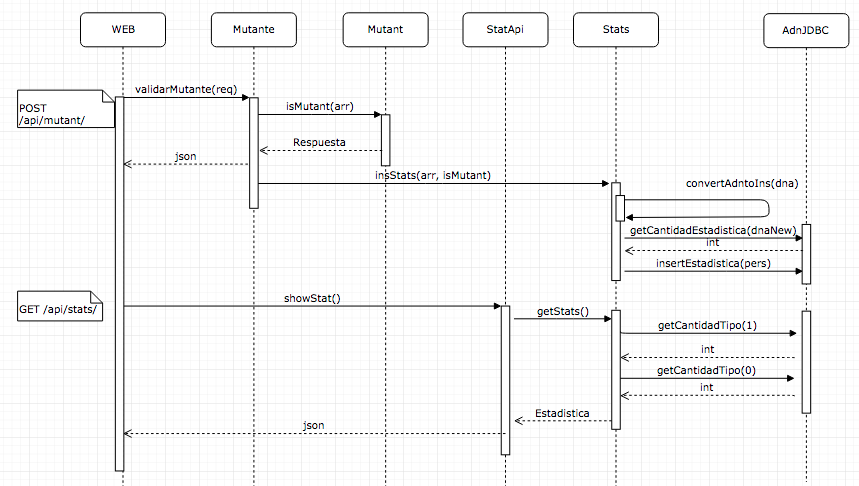
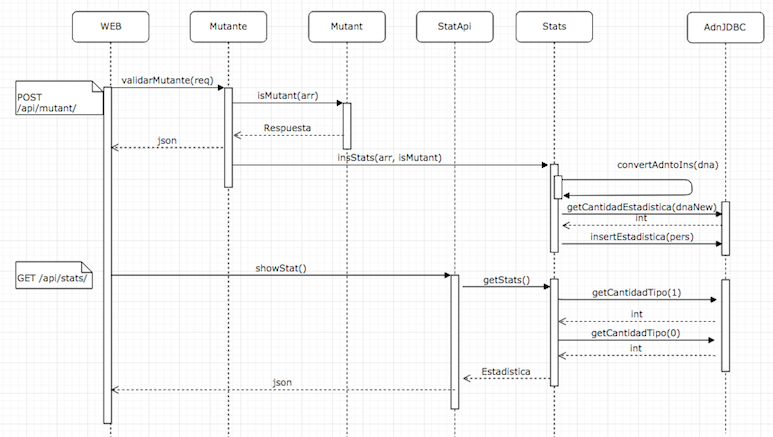
Fix diagrama secuencia
Fix diagrama secuencia

diff --git a/README.md b/README.md
@@ -1,4 +1,4 @@
-# Ejercicio Mer. Lib. Nivel 3 (Agosto 2019)
+# Ejercicio Mer. Linkb. Nivel 3 (Agosto 2019)
 ###### Autor: [Manuel Moya - mmoyam@gmail.com]
 El objetivo de este documento es detallar la resolución del caso Mer. Lib. Nivel 3, donde se debe agregar un API de estdísticas y desplegarlo en un servicio Cloud. Esto basado en el algortimo que detecta mutantes basados su secuencia de ADN del ejercicio anterior [(Nivel 1)](https://github.com/manumoya/MerLibNiv1/) y en la API /mutant/ publicada en [(Nivel 2)](https://github.com/manumoya/MerLibNiv2/).
 
